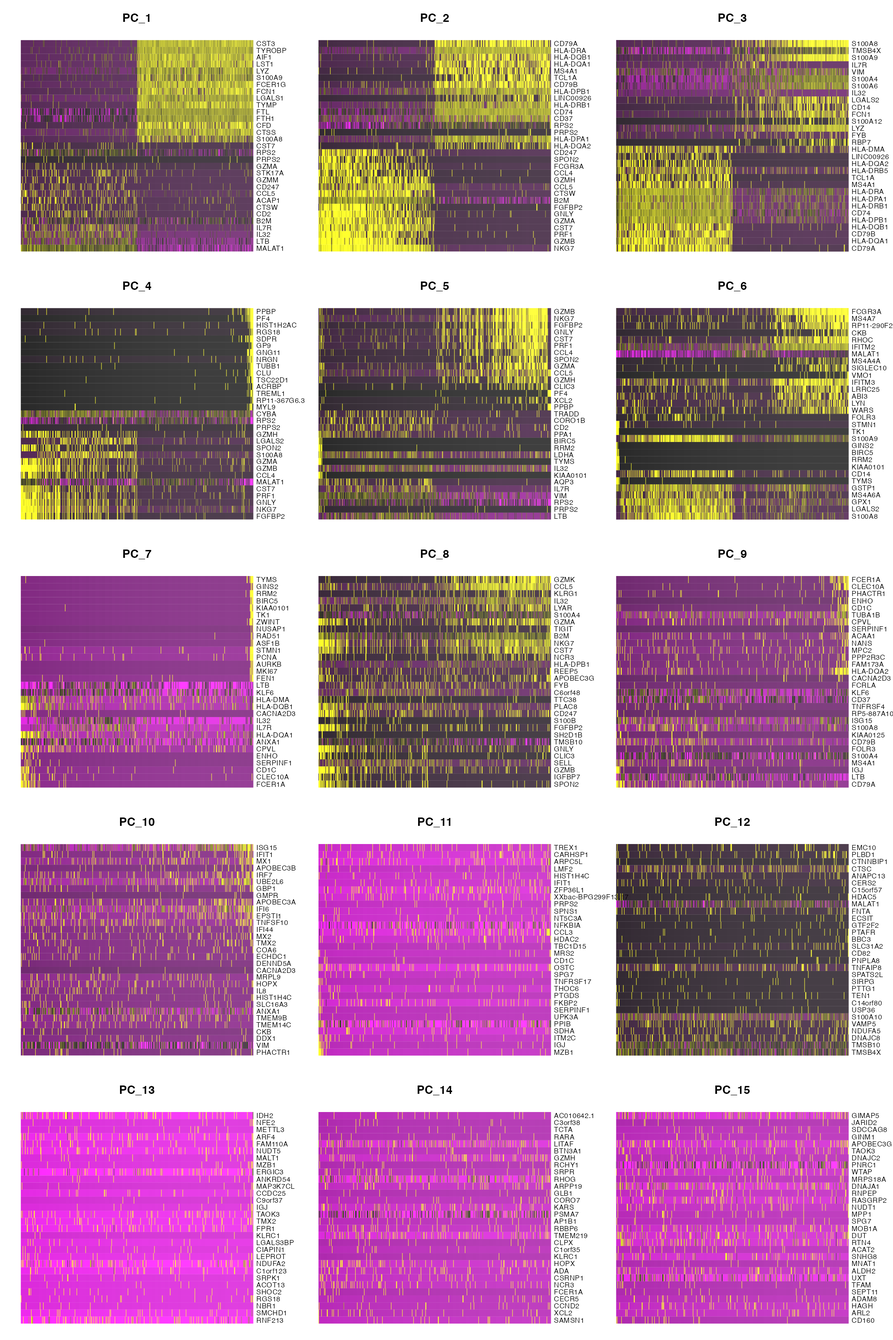
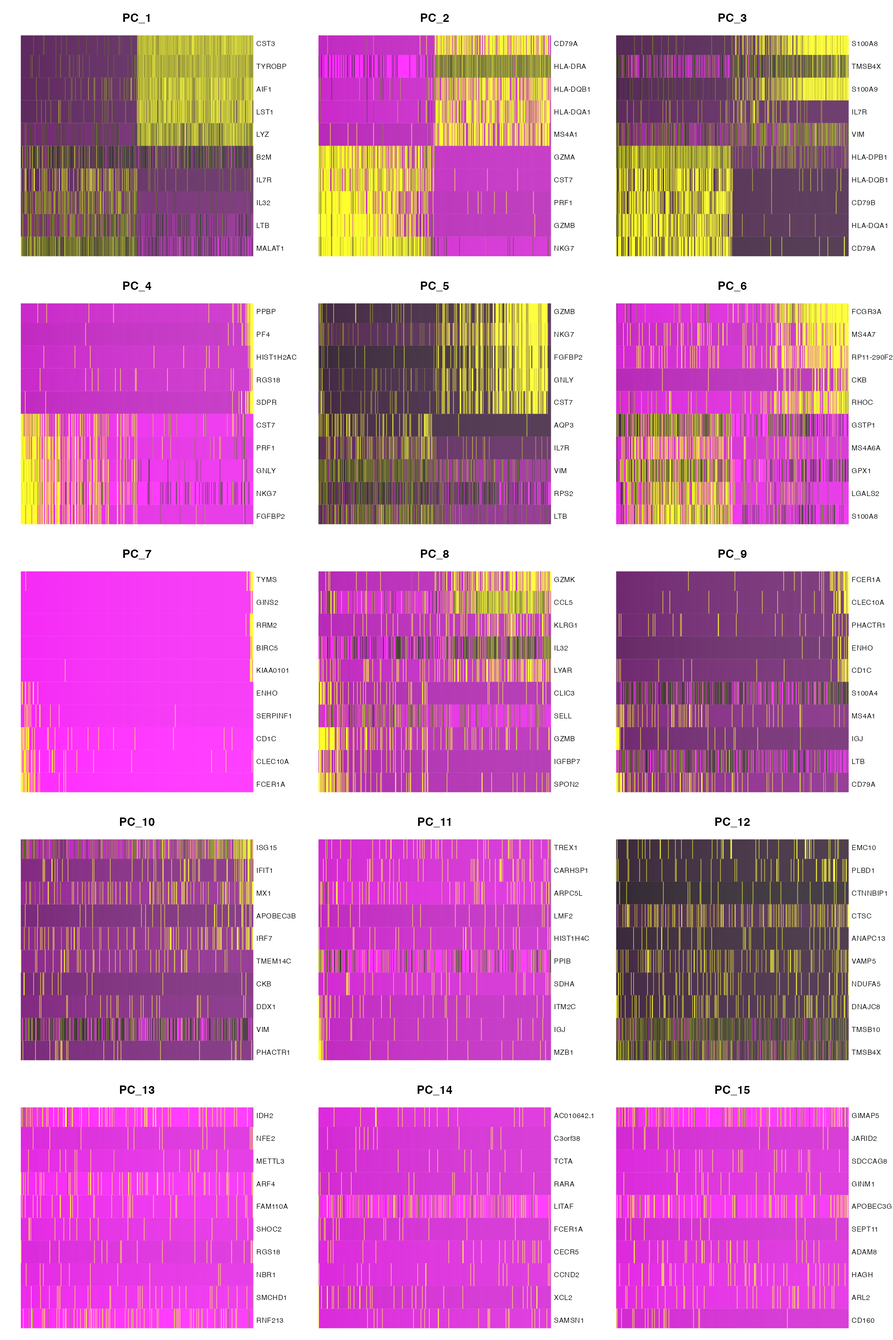
hopefully getting there

diff --git a/docs/articles/seurat_tutorial.html b/docs/articles/seurat_tutorial.html
@@ -211,7 +211,11 @@
 <code class="sourceCode R"><span class="fu"><a href="https://rdrr.io/r/base/sort.html" class="external-link">sort</a></span><span class="op">(</span><span class="va">top10.train</span><span class="op">)</span></code></pre></div>
 <pre><code><span class="co">##  [1] "FTH1"    "FTL"     "GNLY"    "HLA-DRA" "IGLL5"   "LYZ"     "PF4"    </span>
 <span class="co">##  [8] "PPBP"    "S100A8"  "S100A9"</span></code></pre>
-<p>We continue following the preprocessing steps from the Seurat tutorial on both <code>pbmc</code> and <code>pbmc.train</code>. The next step is to scale the data and to compute principal components. Below, we compare loading plots for the first two principal components for <code>pbmc</code> and <code>pbmc.train</code>. We note that <code>ScaleData</code> finally fills in the <code>scale.data</code> slot in the <code>pbmc</code> and <code>pbmc.train</code> objects, and some downstream functions will access this slot.</p>
+<div class="section level3">
+<h3 id="comparing-principal-components-on-pbmc-and-pcmc-train">Comparing principal components on <code>pbmc</code> and <code>pcmc.train</code><a class="anchor" aria-label="anchor" href="#comparing-principal-components-on-pbmc-and-pcmc-train"></a>
+</h3>
+<p>We continue following the preprocessing steps from the Seurat tutorial on both <code>pbmc</code> and <code>pbmc.train</code>. The next step is to scale the data and to compute principal components. In this section, we show that <code>pbmc</code> and <code>pbmc.train</code> have very similar principal components. This is comforting, as it suggests that we do not lose too much information when we count split and estimate principal components on only the training set.</p>
+<p>Below, we compare loading plots for the first two principal components for <code>pbmc</code> and <code>pbmc.train</code>. We note that <code>ScaleData</code> finally fills in the <code>scale.data</code> slot in the <code>pbmc</code> and <code>pbmc.train</code> objects, and some downstream functions will access this slot.</p>
 <div class="sourceCode" id="cb38"><pre class="downlit sourceCode r">
 <code class="sourceCode R"><span class="va">all.genes</span> <span class="op">&lt;-</span> <span class="fu"><a href="https://rdrr.io/r/base/colnames.html" class="external-link">rownames</a></span><span class="op">(</span><span class="va">pbmc</span><span class="op">)</span>
 <span class="va">pbmc</span> <span class="op">&lt;-</span> <span class="fu"><a href="https://satijalab.org/seurat/reference/ScaleData.html" class="external-link">ScaleData</a></span><span class="op">(</span><span class="va">pbmc</span>,features <span class="op">=</span> <span class="va">all.genes</span><span class="op">)</span>
@@ -227,7 +231,7 @@
 
 <span class="va">p1</span><span class="op">+</span><span class="va">p1.train</span><span class="op">+</span><span class="va">p2</span><span class="op">+</span><span class="va">p2.train</span><span class="op">+</span><span class="fu"><a href="https://patchwork.data-imaginist.com/reference/plot_layout.html" class="external-link">plot_layout</a></span><span class="op">(</span>nrow<span class="op">=</span><span class="fl">2</span>, ncol<span class="op">=</span><span class="fl">2</span><span class="op">)</span></code></pre></div>
 <p><img src="seurat_tutorial_files/figure-html/unnamed-chunk-20-1.png" width="960"></p>
-<p>We can see that we obtain very similar principal components on the training set to those obtained on the full data. On both datasets, PC_1 is dominated by the gene <code>MALAT1</code> and genes like genes like <code>CST3, TYROBF</code> are of lesser importance. (The fact that <code>MALAT1</code> has a positive loading in <code>pbmc.train</code> and a negative loading in <code>pbmc</code> is simply due to a sign flip of the first principal component.) The second principal component is dominated by <code>CD79A</code> and <code>HLA-D0A1</code> and <code>HLA-DOB1</code>, with <code>NKG7</code> having lesser importance. (The sign flip is once again unimportant.)</p>
+<p>We can see that we obtain very similar principal components on the training set to those obtained on the full data. On both datasets, PC_1 is dominated by the gene <code>MALAT1</code> in one direction and genes like <code>CST3</code> and <code>TYROBF</code> in the other direction. (The fact that <code>MALAT1</code> has a positive loading in <code>pbmc.train</code> and a negative loading in <code>pbmc</code> is simply due to a sign flip of the first principal component.) The second principal component is dominated by <code>CD79A</code> and <code>HLA-D0A1</code> and <code>HLA-DOB1</code>, with <code>NKG7</code> having a lot of importance with the opposite sign. (The sign flip between the two datasets is once again unimportant.)</p>
 <p>Now that we have convinced ourselves that the training set is retaining a lot of the signal of the full dataset (and is thus able to estimate very similar principal components), we move on to clustering. We skip the next several visualizations and steps of the Seurat tutorial for brevity. We will return to the principal component heatmaps at the end of this document. As in the Seurat tutorial, we retain 10 principal components for clustering.</p>
 <div class="sourceCode" id="cb39"><pre class="downlit sourceCode r">
 <code class="sourceCode R"><span class="va">pbmc</span> <span class="op">&lt;-</span> <span class="fu"><a href="https://satijalab.org/seurat/reference/FindNeighbors.html" class="external-link">FindNeighbors</a></span><span class="op">(</span><span class="va">pbmc</span>, dims <span class="op">=</span> <span class="fl">1</span><span class="op">:</span><span class="fl">10</span><span class="op">)</span>
@@ -239,7 +243,7 @@
 <code class="sourceCode R"><span class="va">pbmc.train</span> <span class="op">&lt;-</span> <span class="fu"><a href="https://satijalab.org/seurat/reference/RunUMAP.html" class="external-link">RunUMAP</a></span><span class="op">(</span><span class="va">pbmc.train</span>, dims <span class="op">=</span> <span class="fl">1</span><span class="op">:</span><span class="fl">10</span><span class="op">)</span>
 <span class="fu"><a href="https://satijalab.org/seurat/reference/DimPlot.html" class="external-link">DimPlot</a></span><span class="op">(</span><span class="va">pbmc.train</span>, reduction <span class="op">=</span> <span class="st">"umap"</span><span class="op">)</span></code></pre></div>
 <p><img src="seurat_tutorial_files/figure-html/unnamed-chunk-22-1.png" width="700"></p>
-<p>We want to know how similar these clusters are to the ones computed on the full data. Looking at two UMAP plots could be potentially misleading, as the UMAP dimensions on the full dataset are  than those on the training set. Further complicating our ability to compare the two clusterings, the training set has slightly fewer cells in it due to the preprocessing pipeline.</p>
+<p>We want to know how similar these clusters are to the ones computed on the full data. Looking at two UMAP plots could be potentially misleading, as the UMAP dimensions on the full dataset are <em>different</em> than those on the training set. Further complicating our ability to compare the two clusterings, the training set has slightly fewer cells in it due to the preprocessing pipeline.</p>
 <div class="sourceCode" id="cb41"><pre class="downlit sourceCode r">
 <code class="sourceCode R"><span class="va">clusters.train</span> <span class="op">&lt;-</span> <span class="fu"><a href="https://mojaveazure.github.io/seurat-object/reference/Idents.html" class="external-link">Idents</a></span><span class="op">(</span><span class="va">pbmc.train</span><span class="op">)</span>
 <span class="va">clusters.full</span> <span class="op">&lt;-</span> <span class="fu"><a href="https://mojaveazure.github.io/seurat-object/reference/Idents.html" class="external-link">Idents</a></span><span class="op">(</span><span class="va">pbmc</span><span class="op">)</span>
@@ -265,14 +269,12 @@
 <span class="co">##              4   0   0   2 342   1   0   0   2   0</span>
 <span class="co">##              5   0   9   0   0   0 159   0   0   7</span>
 <span class="co">##              6   0   1   0   0   0   0   0  29   0</span></code></pre>
-<p>Overall, in this section, we saw that we get very similar estimated clusters when we use the training data obtained from count splitting compared to using the full data (as in the Seurat tutorial).</p>
+<p>Overall, in this section, we saw that we get very similar estimated clusters when we use the training data obtained from count splitting compared to using the full data.</p>
+</div>
 </div>
 <div class="section level2">
-<h2 id="finding-differentially-expressed-features">Finding differentially expressed features<a class="anchor" aria-label="anchor" href="#finding-differentially-expressed-features"></a>
+<h2 id="finding-differentially-expressed-features-manually">Finding differentially expressed features manually<a class="anchor" aria-label="anchor" href="#finding-differentially-expressed-features-manually"></a>
 </h2>
-<div class="section level3">
-<h3 id="manually">Manually<a class="anchor" aria-label="anchor" href="#manually"></a>
-</h3>
 <p>Now that we computed clusters from the training set, it is time to look for differentially expressed genes across the clusters. The “safest” way to perform this analysis is to extract the cluster labels from <code>pbmc.train</code> and write our own analysis functions to see how the columns of <code>Xtestsubset</code> (created above) vary across these clusters. This approach is the safest because we know for sure that the clusters were obtained using only the training data and that the differential expression analysis uses only the test data.</p>
 <p>First, we extract the clusters and verify that we have a cluster for every cell in <code>Xtestsubset</code>.</p>
 <div class="sourceCode" id="cb49"><pre class="downlit sourceCode r">
@@ -313,9 +315,9 @@
 <span class="co">## 2.593535e-91 7.994465e-87 3.922451e-70 1.130870e-66 4.082189e-65 5.526492e-61</span></code></pre></div>
 <p>We identify <code>LTB</code>, <code>IL32</code>, <code>CD3D</code>, and <code>IL7R</code> as the top 4 markers of cluster 2, which is the same as in the Seurat tutorial (although the order is slightly different and the p-values are slightly different). While the takeaways of the two analyses are similar in this case, as explained in <a href="XXXXX">our preprint</a>, the naive method used in the Seurat tutorial cannot reliably determine which genes are differentially expressed, whereas count splitting can (under a Poisson assumption).</p>
 </div>
-<div class="section level3">
-<h3 id="using-seurat">Using Seurat<a class="anchor" aria-label="anchor" href="#using-seurat"></a>
-</h3>
+<div class="section level2">
+<h2 id="finding-differentially-expressed-features-using-seurat">Finding differentially expressed features using Seurat<a class="anchor" aria-label="anchor" href="#finding-differentially-expressed-features-using-seurat"></a>
+</h2>
 <p>It would be nice to be able to make a <code>Seurat</code> object containing the training set clusters but the test set counts. This would allow us to use some of Seurat’s nice visualization features for differential expression testing. We note that <strong>care should be taken in this section</strong>, as we are mixing-and-matching pieces of Seurat objects and Seurat functions not explicitly mentioned in this tutorial may have unexpected behavior.</p>
 <p>We first let <code>pbmc.test</code> equal <code>pbmc.train</code>. This ensures that our test set object gets the same cluster information and UMAP information as the training set, such that we can still visualize the training set clusters. We then update the <code>counts</code> slow of this object to store the test set counts. Unfortunately, once we do this, the <code>data</code> and <code>scale.data</code> slots are not automatically updated to store the normalized or scaled counts. We run normalize and scale functions to remedy this.</p>
 <div class="sourceCode" id="cb55"><pre class="downlit sourceCode r">
@@ -362,19 +364,22 @@
 <span class="co">## CD3E    2.215957e-55  0.8822753 0.833 0.410 3.038963e-51</span>
 <span class="co">## TNFRSF4 8.687757e-54  0.9481583 0.210 0.025 1.191439e-49</span>
 <span class="co">## HLA-DRA 5.941727e-53 -3.4362399 0.345 0.607 8.148484e-49</span></code></pre></div>
+</div>
+<div class="section level2">
+<h2 id="comparing-visualizations-on-training-set-and-test-set">Comparing visualizations on training set and test set<a class="anchor" aria-label="anchor" href="#comparing-visualizations-on-training-set-and-test-set"></a>
+</h2>
 <p>The main reason it is useful to store the test matrix in a <code>Seurat</code> object is that it lets us use many visualization features from the <code>Seurat</code> package.</p>
 <p>Consider the following sets of heatmaps. Each individual heatmap plots 500 randomly selected cells from the relevant dataset, ordered by its coordinates along the specified principal component. The genes with the highest positive loadings and the highest negative loadings are plotted for each principal component. As both <code>pbmc.train</code> and <code>pbmc.test</code> contain information on the principal components computed using the training set, both sets of heat maps plot the same principal components and display the same genes in each panel.</p>
-<p>The first set of heatmaps displays expression counts from the training set. While the association between the genes and the principal components clearly decreases as we move from PC1 to PC15, PC15 still clearly shows association between the top 5 genes and the PC. This association is due to the fact that the training data itself was used to construct the PCs, and so there will always be some genes that appear to be associated with the PC.</p>
+<p>The first set of heatmaps displays expression counts from the training set. While the association between the genes and the principal components clearly decreases as we move from PC1 to PC15, PC15 still clearly shows association between the top genes and the PC. This association is due to the fact that the training data itself was used to construct the PCs, and so there will always be some genes that appear to be associated with the PC.</p>
 <div class="sourceCode" id="cb58"><pre class="downlit sourceCode r">
-<code class="sourceCode R"><span class="fu"><a href="https://satijalab.org/seurat/reference/DimHeatmap.html" class="external-link">DimHeatmap</a></span><span class="op">(</span><span class="va">pbmc.train</span>, dims <span class="op">=</span> <span class="fl">1</span><span class="op">:</span><span class="fl">15</span>, cells <span class="op">=</span> <span class="fl">500</span>, balanced <span class="op">=</span> <span class="cn">TRUE</span><span class="op">)</span></code></pre></div>
+<code class="sourceCode R"><span class="fu"><a href="https://satijalab.org/seurat/reference/DimHeatmap.html" class="external-link">DimHeatmap</a></span><span class="op">(</span><span class="va">pbmc.train</span>, dims <span class="op">=</span> <span class="fl">1</span><span class="op">:</span><span class="fl">15</span>, cells <span class="op">=</span> <span class="fl">500</span>, balanced <span class="op">=</span> <span class="cn">TRUE</span>, nfeatures<span class="op">=</span><span class="fl">10</span><span class="op">)</span></code></pre></div>
 <p><img src="seurat_tutorial_files/figure-html/unnamed-chunk-32-1.png" width="960"></p>
 <p>The following plot still shows principal components computed on the training set, but the expression count values inside of the heat map are now test set counts. For the first 6 or so PCs, the association between test set counts and the PC seems almost as strong as the association between the training set counts and the PCs. This suggests that these PCs are measuring true signal in the data. On the other hand, consider the PCs 10-15. The patterns seen in the training set essentially disappear in the top genes plotted for the test set. This suggests that any association seen in the initial heatmaps was due to overfitting; these PCs do not measure anything useful or interesting.</p>
 <div class="sourceCode" id="cb59"><pre class="downlit sourceCode r">
-<code class="sourceCode R"><span class="fu"><a href="https://satijalab.org/seurat/reference/DimHeatmap.html" class="external-link">DimHeatmap</a></span><span class="op">(</span><span class="va">pbmc.test</span>, dims <span class="op">=</span> <span class="fl">1</span><span class="op">:</span><span class="fl">15</span>, cells <span class="op">=</span> <span class="fl">500</span>, balanced <span class="op">=</span> <span class="cn">TRUE</span><span class="op">)</span></code></pre></div>
+<code class="sourceCode R"><span class="fu"><a href="https://satijalab.org/seurat/reference/DimHeatmap.html" class="external-link">DimHeatmap</a></span><span class="op">(</span><span class="va">pbmc.test</span>, dims <span class="op">=</span> <span class="fl">1</span><span class="op">:</span><span class="fl">15</span>, cells <span class="op">=</span> <span class="fl">500</span>, balanced <span class="op">=</span> <span class="cn">TRUE</span>, nfeatures<span class="op">=</span><span class="fl">10</span><span class="op">)</span></code></pre></div>
 <p><img src="seurat_tutorial_files/figure-html/unnamed-chunk-33-1.png" width="960"></p>
 <p>Our results using count splitting line up with insights from the Seurat tutorial obtained using Jackstraw: the original Seurat tutorial suggested that it would be reasonable to keep 7-12 PCs, and chose to keep 10 PCs. However, Jackstraw requires re-computing PCs for many permuted versions of the data, while our heatmaps obtained using count splitting requires only a single principal component calculation.</p>
 <p>While the rest of this tutorial focused on how count splitting and the naive method provided similar conclusions (i.e. count splitting does not cause us to miss true signal when it is present), these heatmaps are the first place in this tutorial where we have seen ad advantage of count splitting (apart from the fact that we know theoretically that the naive method fails to control the Type 1 error rate).</p>
-</div>
 </div>
 <div class="section level2">
 <h2 class="unnumbered" id="references">References<a class="anchor" aria-label="anchor" href="#references"></a>

diff --git a/docs/reference/pbmc.counts.html b/docs/reference/pbmc.counts.html
@@ -1,8 +1,7 @@
 <!DOCTYPE html>
-<!-- Generated by pkgdown: do not edit by hand --><html lang="en"><head><meta http-equiv="Content-Type" content="text/html; charset=UTF-8"><meta charset="utf-8"><meta http-equiv="X-UA-Compatible" content="IE=edge"><meta name="viewport" content="width=device-width, initial-scale=1.0"><title>This was downloaded using the instructions at the start of the Seurat clustering tutorial.
-It is included here for convenience. — pbmc.counts • countsplit</title><!-- jquery --><script src="https://cdnjs.cloudflare.com/ajax/libs/jquery/3.4.1/jquery.min.js" integrity="sha256-CSXorXvZcTkaix6Yvo6HppcZGetbYMGWSFlBw8HfCJo=" crossorigin="anonymous"></script><!-- Bootstrap --><link href="https://cdnjs.cloudflare.com/ajax/libs/bootswatch/3.4.0/flatly/bootstrap.min.css" rel="stylesheet" crossorigin="anonymous"><script src="https://cdnjs.cloudflare.com/ajax/libs/twitter-bootstrap/3.4.1/js/bootstrap.min.js" integrity="sha256-nuL8/2cJ5NDSSwnKD8VqreErSWHtnEP9E7AySL+1ev4=" crossorigin="anonymous"></script><!-- bootstrap-toc --><link rel="stylesheet" href="../bootstrap-toc.css"><script src="../bootstrap-toc.js"></script><!-- Font Awesome icons --><link rel="stylesheet" href="https://cdnjs.cloudflare.com/ajax/libs/font-awesome/5.12.1/css/all.min.css" integrity="sha256-mmgLkCYLUQbXn0B1SRqzHar6dCnv9oZFPEC1g1cwlkk=" crossorigin="anonymous"><link rel="stylesheet" href="https://cdnjs.cloudflare.com/ajax/libs/font-awesome/5.12.1/css/v4-shims.min.css" integrity="sha256-wZjR52fzng1pJHwx4aV2AO3yyTOXrcDW7jBpJtTwVxw=" crossorigin="anonymous"><!-- clipboard.js --><script src="https://cdnjs.cloudflare.com/ajax/libs/clipboard.js/2.0.6/clipboard.min.js" integrity="sha256-inc5kl9MA1hkeYUt+EC3BhlIgyp/2jDIyBLS6k3UxPI=" crossorigin="anonymous"></script><!-- headroom.js --><script src="https://cdnjs.cloudflare.com/ajax/libs/headroom/0.11.0/headroom.min.js" integrity="sha256-AsUX4SJE1+yuDu5+mAVzJbuYNPHj/WroHuZ8Ir/CkE0=" crossorigin="anonymous"></script><script src="https://cdnjs.cloudflare.com/ajax/libs/headroom/0.11.0/jQuery.headroom.min.js" integrity="sha256-ZX/yNShbjqsohH1k95liqY9Gd8uOiE1S4vZc+9KQ1K4=" crossorigin="anonymous"></script><!-- pkgdown --><link href="../pkgdown.css" rel="stylesheet"><script src="../pkgdown.js"></script><meta property="og:title" content="This was downloaded using the instructions at the start of the Seurat clustering tutorial.
-It is included here for convenience. — pbmc.counts"><meta property="og:description" content="This was downloaded using the instructions at the start of the Seurat clustering tutorial.
-It is included here for convenience."><!-- mathjax --><script src="https://cdnjs.cloudflare.com/ajax/libs/mathjax/2.7.5/MathJax.js" integrity="sha256-nvJJv9wWKEm88qvoQl9ekL2J+k/RWIsaSScxxlsrv8k=" crossorigin="anonymous"></script><script src="https://cdnjs.cloudflare.com/ajax/libs/mathjax/2.7.5/config/TeX-AMS-MML_HTMLorMML.js" integrity="sha256-84DKXVJXs0/F8OTMzX4UR909+jtl4G7SPypPavF+GfA=" crossorigin="anonymous"></script><!--[if lt IE 9]>
+<!-- Generated by pkgdown: do not edit by hand --><html lang="en"><head><meta http-equiv="Content-Type" content="text/html; charset=UTF-8"><meta charset="utf-8"><meta http-equiv="X-UA-Compatible" content="IE=edge"><meta name="viewport" content="width=device-width, initial-scale=1.0"><title>PBMC data from 10X Genomics. — pbmc.counts • countsplit</title><!-- jquery --><script src="https://cdnjs.cloudflare.com/ajax/libs/jquery/3.4.1/jquery.min.js" integrity="sha256-CSXorXvZcTkaix6Yvo6HppcZGetbYMGWSFlBw8HfCJo=" crossorigin="anonymous"></script><!-- Bootstrap --><link href="https://cdnjs.cloudflare.com/ajax/libs/bootswatch/3.4.0/flatly/bootstrap.min.css" rel="stylesheet" crossorigin="anonymous"><script src="https://cdnjs.cloudflare.com/ajax/libs/twitter-bootstrap/3.4.1/js/bootstrap.min.js" integrity="sha256-nuL8/2cJ5NDSSwnKD8VqreErSWHtnEP9E7AySL+1ev4=" crossorigin="anonymous"></script><!-- bootstrap-toc --><link rel="stylesheet" href="../bootstrap-toc.css"><script src="../bootstrap-toc.js"></script><!-- Font Awesome icons --><link rel="stylesheet" href="https://cdnjs.cloudflare.com/ajax/libs/font-awesome/5.12.1/css/all.min.css" integrity="sha256-mmgLkCYLUQbXn0B1SRqzHar6dCnv9oZFPEC1g1cwlkk=" crossorigin="anonymous"><link rel="stylesheet" href="https://cdnjs.cloudflare.com/ajax/libs/font-awesome/5.12.1/css/v4-shims.min.css" integrity="sha256-wZjR52fzng1pJHwx4aV2AO3yyTOXrcDW7jBpJtTwVxw=" crossorigin="anonymous"><!-- clipboard.js --><script src="https://cdnjs.cloudflare.com/ajax/libs/clipboard.js/2.0.6/clipboard.min.js" integrity="sha256-inc5kl9MA1hkeYUt+EC3BhlIgyp/2jDIyBLS6k3UxPI=" crossorigin="anonymous"></script><!-- headroom.js --><script src="https://cdnjs.cloudflare.com/ajax/libs/headroom/0.11.0/headroom.min.js" integrity="sha256-AsUX4SJE1+yuDu5+mAVzJbuYNPHj/WroHuZ8Ir/CkE0=" crossorigin="anonymous"></script><script src="https://cdnjs.cloudflare.com/ajax/libs/headroom/0.11.0/jQuery.headroom.min.js" integrity="sha256-ZX/yNShbjqsohH1k95liqY9Gd8uOiE1S4vZc+9KQ1K4=" crossorigin="anonymous"></script><!-- pkgdown --><link href="../pkgdown.css" rel="stylesheet"><script src="../pkgdown.js"></script><meta property="og:title" content="PBMC data from 10X Genomics. — pbmc.counts"><meta property="og:description" content="This dataset is downloaded at the start of the Seurat guided clustering tutorial (https://satijalab.org/seurat/articles/pbmc3k_tutorial.html).
+It is a dataset of Peripheral Blood Mononuclear Cells (PBMC) which has been made freely available by 10X Genomics.
+The dataset contains raw counts for 2,700 single cells that were sequenced on the Illumina NextSeq 500."><!-- mathjax --><script src="https://cdnjs.cloudflare.com/ajax/libs/mathjax/2.7.5/MathJax.js" integrity="sha256-nvJJv9wWKEm88qvoQl9ekL2J+k/RWIsaSScxxlsrv8k=" crossorigin="anonymous"></script><script src="https://cdnjs.cloudflare.com/ajax/libs/mathjax/2.7.5/config/TeX-AMS-MML_HTMLorMML.js" integrity="sha256-84DKXVJXs0/F8OTMzX4UR909+jtl4G7SPypPavF+GfA=" crossorigin="anonymous"></script><!--[if lt IE 9]>
 <script src="https://oss.maxcdn.com/html5shiv/3.7.3/html5shiv.min.js"></script>
 <script src="https://oss.maxcdn.com/respond/1.4.2/respond.min.js"></script>
 <![endif]--></head><body data-spy="scroll" data-target="#toc">
@@ -55,15 +54,15 @@ It is included here for convenience."><!-- mathjax --><script src="https://cdnjs
       </header><div class="row">
   <div class="col-md-9 contents">
     <div class="page-header">
-    <h1>This was downloaded using the instructions at the start of the Seurat clustering tutorial.
-It is included here for convenience.</h1>
+    <h1>PBMC data from 10X Genomics.</h1>
     <small class="dont-index">Source: <a href="https://github.com/anna-neufeld/countsplit/blob/HEAD/R/data.R" class="external-link"><code>R/data.R</code></a></small>
     <div class="hidden name"><code>pbmc.counts.Rd</code></div>
     </div>
 
     <div class="ref-description">
-    <p>This was downloaded using the instructions at the start of the Seurat clustering tutorial.
-It is included here for convenience.</p>
+    <p>This dataset is downloaded at the start of the Seurat guided clustering tutorial (https://satijalab.org/seurat/articles/pbmc3k_tutorial.html).
+It is a dataset of Peripheral Blood Mononuclear Cells (PBMC) which has been made freely available by 10X Genomics.
+The dataset contains raw counts for 2,700 single cells that were sequenced on the Illumina NextSeq 500.</p>
     </div>
 
     <div id="ref-usage">

diff --git a/docs/reference/cm.html b/docs/reference/cm.html
@@ -1,6 +1,6 @@
 <!DOCTYPE html>
-<!-- Generated by pkgdown: do not edit by hand --><html lang="en"><head><meta http-equiv="Content-Type" content="text/html; charset=UTF-8"><meta charset="utf-8"><meta http-equiv="X-UA-Compatible" content="IE=edge"><meta name="viewport" content="width=device-width, initial-scale=1.0"><title>Cardiomyocyte data. — cm • countsplit</title><!-- jquery --><script src="https://cdnjs.cloudflare.com/ajax/libs/jquery/3.4.1/jquery.min.js" integrity="sha256-CSXorXvZcTkaix6Yvo6HppcZGetbYMGWSFlBw8HfCJo=" crossorigin="anonymous"></script><!-- Bootstrap --><link href="https://cdnjs.cloudflare.com/ajax/libs/bootswatch/3.4.0/flatly/bootstrap.min.css" rel="stylesheet" crossorigin="anonymous"><script src="https://cdnjs.cloudflare.com/ajax/libs/twitter-bootstrap/3.4.1/js/bootstrap.min.js" integrity="sha256-nuL8/2cJ5NDSSwnKD8VqreErSWHtnEP9E7AySL+1ev4=" crossorigin="anonymous"></script><!-- bootstrap-toc --><link rel="stylesheet" href="../bootstrap-toc.css"><script src="../bootstrap-toc.js"></script><!-- Font Awesome icons --><link rel="stylesheet" href="https://cdnjs.cloudflare.com/ajax/libs/font-awesome/5.12.1/css/all.min.css" integrity="sha256-mmgLkCYLUQbXn0B1SRqzHar6dCnv9oZFPEC1g1cwlkk=" crossorigin="anonymous"><link rel="stylesheet" href="https://cdnjs.cloudflare.com/ajax/libs/font-awesome/5.12.1/css/v4-shims.min.css" integrity="sha256-wZjR52fzng1pJHwx4aV2AO3yyTOXrcDW7jBpJtTwVxw=" crossorigin="anonymous"><!-- clipboard.js --><script src="https://cdnjs.cloudflare.com/ajax/libs/clipboard.js/2.0.6/clipboard.min.js" integrity="sha256-inc5kl9MA1hkeYUt+EC3BhlIgyp/2jDIyBLS6k3UxPI=" crossorigin="anonymous"></script><!-- headroom.js --><script src="https://cdnjs.cloudflare.com/ajax/libs/headroom/0.11.0/headroom.min.js" integrity="sha256-AsUX4SJE1+yuDu5+mAVzJbuYNPHj/WroHuZ8Ir/CkE0=" crossorigin="anonymous"></script><script src="https://cdnjs.cloudflare.com/ajax/libs/headroom/0.11.0/jQuery.headroom.min.js" integrity="sha256-ZX/yNShbjqsohH1k95liqY9Gd8uOiE1S4vZc+9KQ1K4=" crossorigin="anonymous"></script><!-- pkgdown --><link href="../pkgdown.css" rel="stylesheet"><script src="../pkgdown.js"></script><meta property="og:title" content="Cardiomyocyte data. — cm"><meta property="og:description" content="This is a subset of a dataset that was collected by Elborany et al., 2022 and used in our paper. This
-subset contains 10,000 cells and more than 20,000 genes."><!-- mathjax --><script src="https://cdnjs.cloudflare.com/ajax/libs/mathjax/2.7.5/MathJax.js" integrity="sha256-nvJJv9wWKEm88qvoQl9ekL2J+k/RWIsaSScxxlsrv8k=" crossorigin="anonymous"></script><script src="https://cdnjs.cloudflare.com/ajax/libs/mathjax/2.7.5/config/TeX-AMS-MML_HTMLorMML.js" integrity="sha256-84DKXVJXs0/F8OTMzX4UR909+jtl4G7SPypPavF+GfA=" crossorigin="anonymous"></script><!--[if lt IE 9]>
+<!-- Generated by pkgdown: do not edit by hand --><html lang="en"><head><meta http-equiv="Content-Type" content="text/html; charset=UTF-8"><meta charset="utf-8"><meta http-equiv="X-UA-Compatible" content="IE=edge"><meta name="viewport" content="width=device-width, initial-scale=1.0"><title>Cardiomyocyte data from Elorbany et al., 2022. — cm • countsplit</title><!-- jquery --><script src="https://cdnjs.cloudflare.com/ajax/libs/jquery/3.4.1/jquery.min.js" integrity="sha256-CSXorXvZcTkaix6Yvo6HppcZGetbYMGWSFlBw8HfCJo=" crossorigin="anonymous"></script><!-- Bootstrap --><link href="https://cdnjs.cloudflare.com/ajax/libs/bootswatch/3.4.0/flatly/bootstrap.min.css" rel="stylesheet" crossorigin="anonymous"><script src="https://cdnjs.cloudflare.com/ajax/libs/twitter-bootstrap/3.4.1/js/bootstrap.min.js" integrity="sha256-nuL8/2cJ5NDSSwnKD8VqreErSWHtnEP9E7AySL+1ev4=" crossorigin="anonymous"></script><!-- bootstrap-toc --><link rel="stylesheet" href="../bootstrap-toc.css"><script src="../bootstrap-toc.js"></script><!-- Font Awesome icons --><link rel="stylesheet" href="https://cdnjs.cloudflare.com/ajax/libs/font-awesome/5.12.1/css/all.min.css" integrity="sha256-mmgLkCYLUQbXn0B1SRqzHar6dCnv9oZFPEC1g1cwlkk=" crossorigin="anonymous"><link rel="stylesheet" href="https://cdnjs.cloudflare.com/ajax/libs/font-awesome/5.12.1/css/v4-shims.min.css" integrity="sha256-wZjR52fzng1pJHwx4aV2AO3yyTOXrcDW7jBpJtTwVxw=" crossorigin="anonymous"><!-- clipboard.js --><script src="https://cdnjs.cloudflare.com/ajax/libs/clipboard.js/2.0.6/clipboard.min.js" integrity="sha256-inc5kl9MA1hkeYUt+EC3BhlIgyp/2jDIyBLS6k3UxPI=" crossorigin="anonymous"></script><!-- headroom.js --><script src="https://cdnjs.cloudflare.com/ajax/libs/headroom/0.11.0/headroom.min.js" integrity="sha256-AsUX4SJE1+yuDu5+mAVzJbuYNPHj/WroHuZ8Ir/CkE0=" crossorigin="anonymous"></script><script src="https://cdnjs.cloudflare.com/ajax/libs/headroom/0.11.0/jQuery.headroom.min.js" integrity="sha256-ZX/yNShbjqsohH1k95liqY9Gd8uOiE1S4vZc+9KQ1K4=" crossorigin="anonymous"></script><!-- pkgdown --><link href="../pkgdown.css" rel="stylesheet"><script src="../pkgdown.js"></script><meta property="og:title" content="Cardiomyocyte data from Elorbany et al., 2022. — cm"><meta property="og:description" content="This is a subset of a dataset that was collected by Elborany et al., 2022. This data was also analyzed in Neufeld et al., 2022.
+This subset contains 10,000 cells and more than 20,000 genes. The format is a SingleCellExperiment object."><!-- mathjax --><script src="https://cdnjs.cloudflare.com/ajax/libs/mathjax/2.7.5/MathJax.js" integrity="sha256-nvJJv9wWKEm88qvoQl9ekL2J+k/RWIsaSScxxlsrv8k=" crossorigin="anonymous"></script><script src="https://cdnjs.cloudflare.com/ajax/libs/mathjax/2.7.5/config/TeX-AMS-MML_HTMLorMML.js" integrity="sha256-84DKXVJXs0/F8OTMzX4UR909+jtl4G7SPypPavF+GfA=" crossorigin="anonymous"></script><!--[if lt IE 9]>
 <script src="https://oss.maxcdn.com/html5shiv/3.7.3/html5shiv.min.js"></script>
 <script src="https://oss.maxcdn.com/respond/1.4.2/respond.min.js"></script>
 <![endif]--></head><body data-spy="scroll" data-target="#toc">
@@ -53,14 +53,14 @@ subset contains 10,000 cells and more than 20,000 genes."><!-- mathjax --><scrip
       </header><div class="row">
   <div class="col-md-9 contents">
     <div class="page-header">
-    <h1>Cardiomyocyte data.</h1>
+    <h1>Cardiomyocyte data from Elorbany et al., 2022.</h1>
     <small class="dont-index">Source: <a href="https://github.com/anna-neufeld/countsplit/blob/HEAD/R/data.R" class="external-link"><code>R/data.R</code></a></small>
     <div class="hidden name"><code>cm.Rd</code></div>
     </div>
 
     <div class="ref-description">
-    <p>This is a subset of a dataset that was collected by Elborany et al., 2022 and used in our paper. This
-subset contains 10,000 cells and more than 20,000 genes.</p>
+    <p>This is a subset of a dataset that was collected by Elborany et al., 2022. This data was also analyzed in Neufeld et al., 2022.
+This subset contains 10,000 cells and more than 20,000 genes. The format is a SingleCellExperiment object.</p>
     </div>
 
     <div id="ref-usage">
@@ -70,6 +70,10 @@ subset contains 10,000 cells and more than 20,000 genes.</p>
     <div id="format">
     <h2>Format</h2>
     <p>A RDS object.</p>
+    </div>
+    <div id="references">
+    <h2>References</h2>
+    <p>Elorbany, Reem, et al. "Single-cell sequencing reveals lineage-specific dynamic genetic regulation of gene expression during human cardiomyocyte differentiation." PLoS genetics 18.1 (2022): e1009666.</p>
     </div>
 
     <div id="ref-examples">

diff --git a/docs/articles/monocle3_tutorial.html b/docs/articles/monocle3_tutorial.html
@@ -5,13 +5,13 @@
 <meta charset="utf-8">
 <meta http-equiv="X-UA-Compatible" content="IE=edge">
 <meta name="viewport" content="width=device-width, initial-scale=1.0">
-<title>Tutorial: countsplitting and Monocle3 • countsplit</title>
+<title>Tutorial: countsplitting with Monocle3 • countsplit</title>
 <!-- jquery --><script src="https://cdnjs.cloudflare.com/ajax/libs/jquery/3.4.1/jquery.min.js" integrity="sha256-CSXorXvZcTkaix6Yvo6HppcZGetbYMGWSFlBw8HfCJo=" crossorigin="anonymous"></script><!-- Bootstrap --><link href="https://cdnjs.cloudflare.com/ajax/libs/bootswatch/3.4.0/flatly/bootstrap.min.css" rel="stylesheet" crossorigin="anonymous">
 <script src="https://cdnjs.cloudflare.com/ajax/libs/twitter-bootstrap/3.4.1/js/bootstrap.min.js" integrity="sha256-nuL8/2cJ5NDSSwnKD8VqreErSWHtnEP9E7AySL+1ev4=" crossorigin="anonymous"></script><!-- bootstrap-toc --><link rel="stylesheet" href="../bootstrap-toc.css">
 <script src="../bootstrap-toc.js"></script><!-- Font Awesome icons --><link rel="stylesheet" href="https://cdnjs.cloudflare.com/ajax/libs/font-awesome/5.12.1/css/all.min.css" integrity="sha256-mmgLkCYLUQbXn0B1SRqzHar6dCnv9oZFPEC1g1cwlkk=" crossorigin="anonymous">
 <link rel="stylesheet" href="https://cdnjs.cloudflare.com/ajax/libs/font-awesome/5.12.1/css/v4-shims.min.css" integrity="sha256-wZjR52fzng1pJHwx4aV2AO3yyTOXrcDW7jBpJtTwVxw=" crossorigin="anonymous">
 <!-- clipboard.js --><script src="https://cdnjs.cloudflare.com/ajax/libs/clipboard.js/2.0.6/clipboard.min.js" integrity="sha256-inc5kl9MA1hkeYUt+EC3BhlIgyp/2jDIyBLS6k3UxPI=" crossorigin="anonymous"></script><!-- headroom.js --><script src="https://cdnjs.cloudflare.com/ajax/libs/headroom/0.11.0/headroom.min.js" integrity="sha256-AsUX4SJE1+yuDu5+mAVzJbuYNPHj/WroHuZ8Ir/CkE0=" crossorigin="anonymous"></script><script src="https://cdnjs.cloudflare.com/ajax/libs/headroom/0.11.0/jQuery.headroom.min.js" integrity="sha256-ZX/yNShbjqsohH1k95liqY9Gd8uOiE1S4vZc+9KQ1K4=" crossorigin="anonymous"></script><!-- pkgdown --><link href="../pkgdown.css" rel="stylesheet">
-<script src="../pkgdown.js"></script><meta property="og:title" content="Tutorial: countsplitting and Monocle3">
+<script src="../pkgdown.js"></script><meta property="og:title" content="Tutorial: countsplitting with Monocle3">
 <meta property="og:description" content="countsplit">
 <!-- mathjax --><script src="https://cdnjs.cloudflare.com/ajax/libs/mathjax/2.7.5/MathJax.js" integrity="sha256-nvJJv9wWKEm88qvoQl9ekL2J+k/RWIsaSScxxlsrv8k=" crossorigin="anonymous"></script><script src="https://cdnjs.cloudflare.com/ajax/libs/mathjax/2.7.5/config/TeX-AMS-MML_HTMLorMML.js" integrity="sha256-84DKXVJXs0/F8OTMzX4UR909+jtl4G7SPypPavF+GfA=" crossorigin="anonymous"></script><!--[if lt IE 9]>
 <script src="https://oss.maxcdn.com/html5shiv/3.7.3/html5shiv.min.js"></script>
@@ -75,7 +75,7 @@
       </header><div class="row">
   <div class="col-md-9 contents">
     <div class="page-header toc-ignore">
-      <h1 data-toc-skip>Tutorial: countsplitting and Monocle3</h1>
+      <h1 data-toc-skip>Tutorial: countsplitting with Monocle3</h1>
             
       
       <small class="dont-index">Source: <a href="https://github.com/anna-neufeld/countsplit/blob/HEAD/vignettes/monocle3_tutorial.Rmd" class="external-link"><code>vignettes/monocle3_tutorial.Rmd</code></a></small>

diff --git a/docs/reference/index.html b/docs/reference/index.html
@@ -66,12 +66,11 @@
       </tr><tr><td>
           <p><code><a href="cm.html">cm</a></code> </p>
         </td>
-        <td><p>Cardiomyocyte data.</p></td>
+        <td><p>Cardiomyocyte data from Elorbany et al., 2022.</p></td>
       </tr><tr><td>
           <p><code><a href="pbmc.counts.html">pbmc.counts</a></code> </p>
         </td>
-        <td><p>This was downloaded using the instructions at the start of the Seurat clustering tutorial.
-It is included here for convenience.</p></td>
+        <td><p>PBMC data from 10X Genomics.</p></td>
       </tr></tbody></table></div>
 
   <div class="col-md-3 hidden-xs hidden-sm" id="pkgdown-sidebar">

diff --git a/docs/articles/index.html b/docs/articles/index.html
@@ -61,7 +61,7 @@
 
       <dl><dt><a href="countsplit_tutorial.html">Tutorial: differential expression analysis on single cell RNA-seq data</a></dt>
         <dd>
-        </dd><dt><a href="monocle3_tutorial.html">Tutorial: countsplitting and Monocle3</a></dt>
+        </dd><dt><a href="monocle3_tutorial.html">Tutorial: countsplitting with Monocle3</a></dt>
         <dd>
         </dd><dt><a href="scran_tutorial.html">Tutorial: countsplitting and scran</a></dt>
         <dd>
